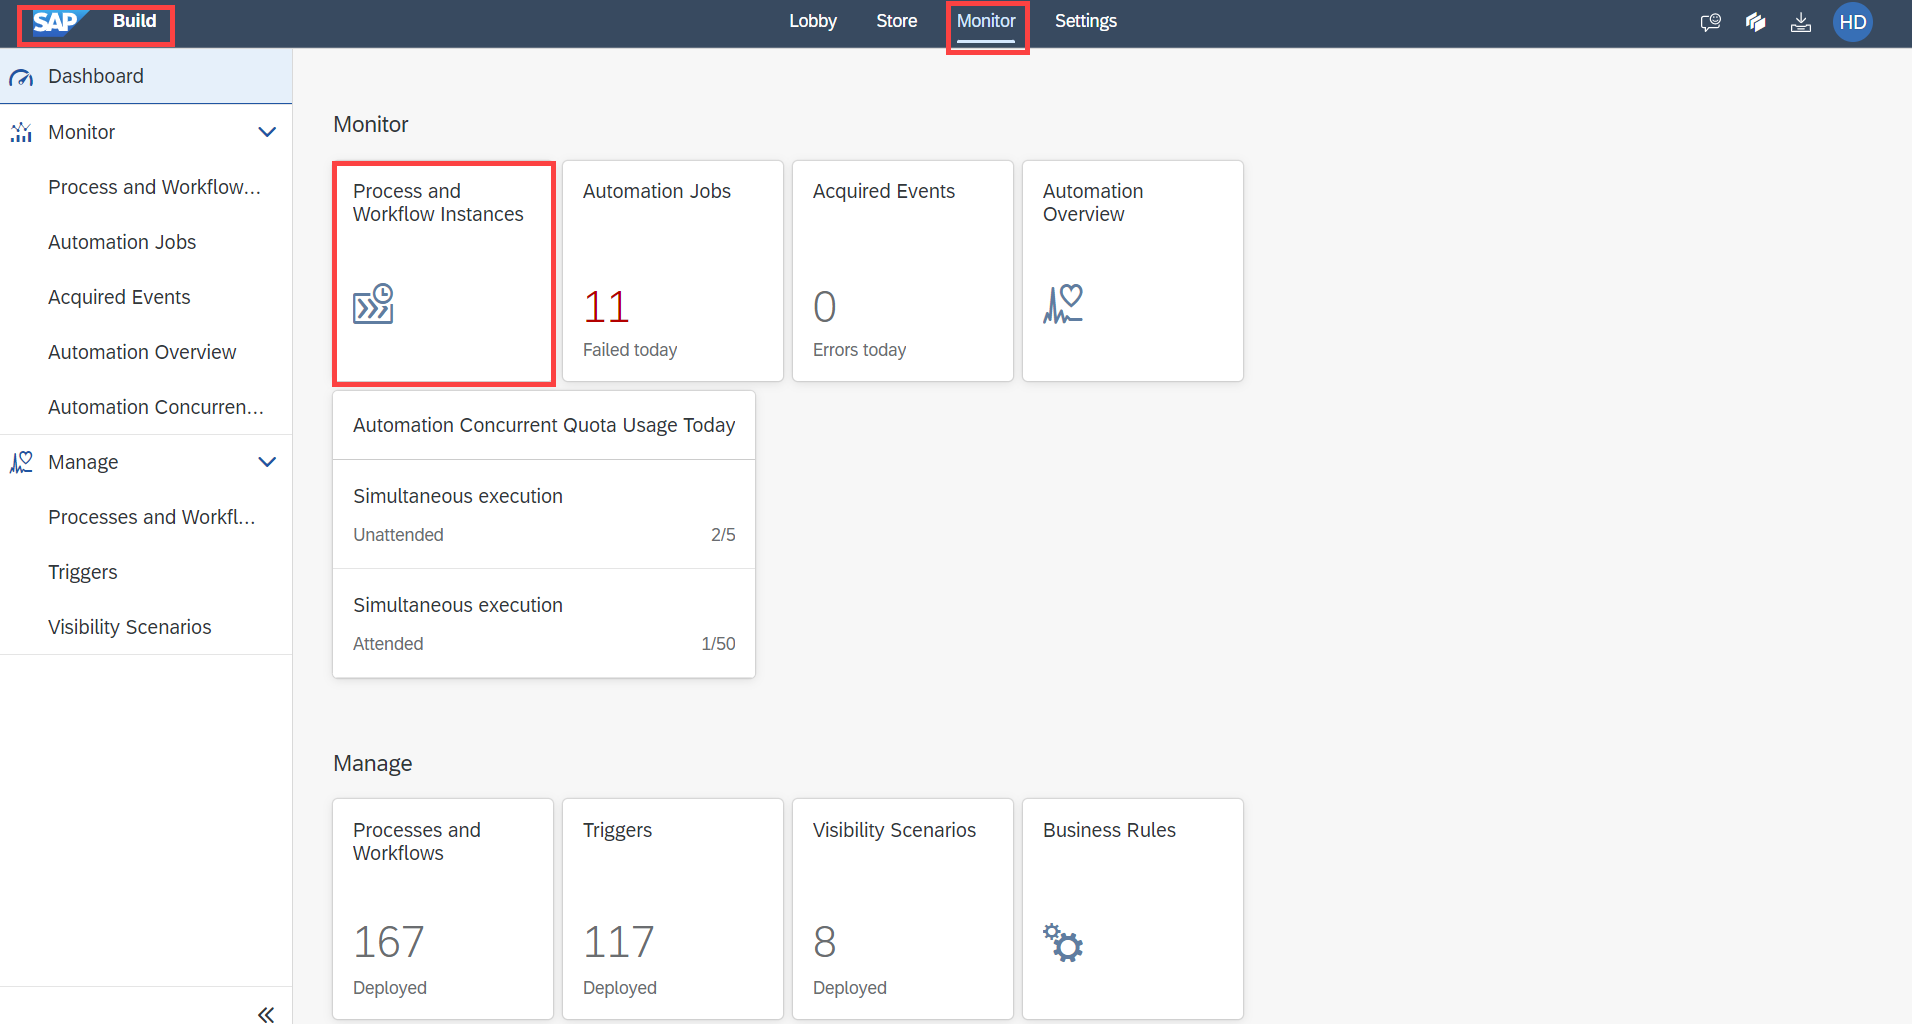
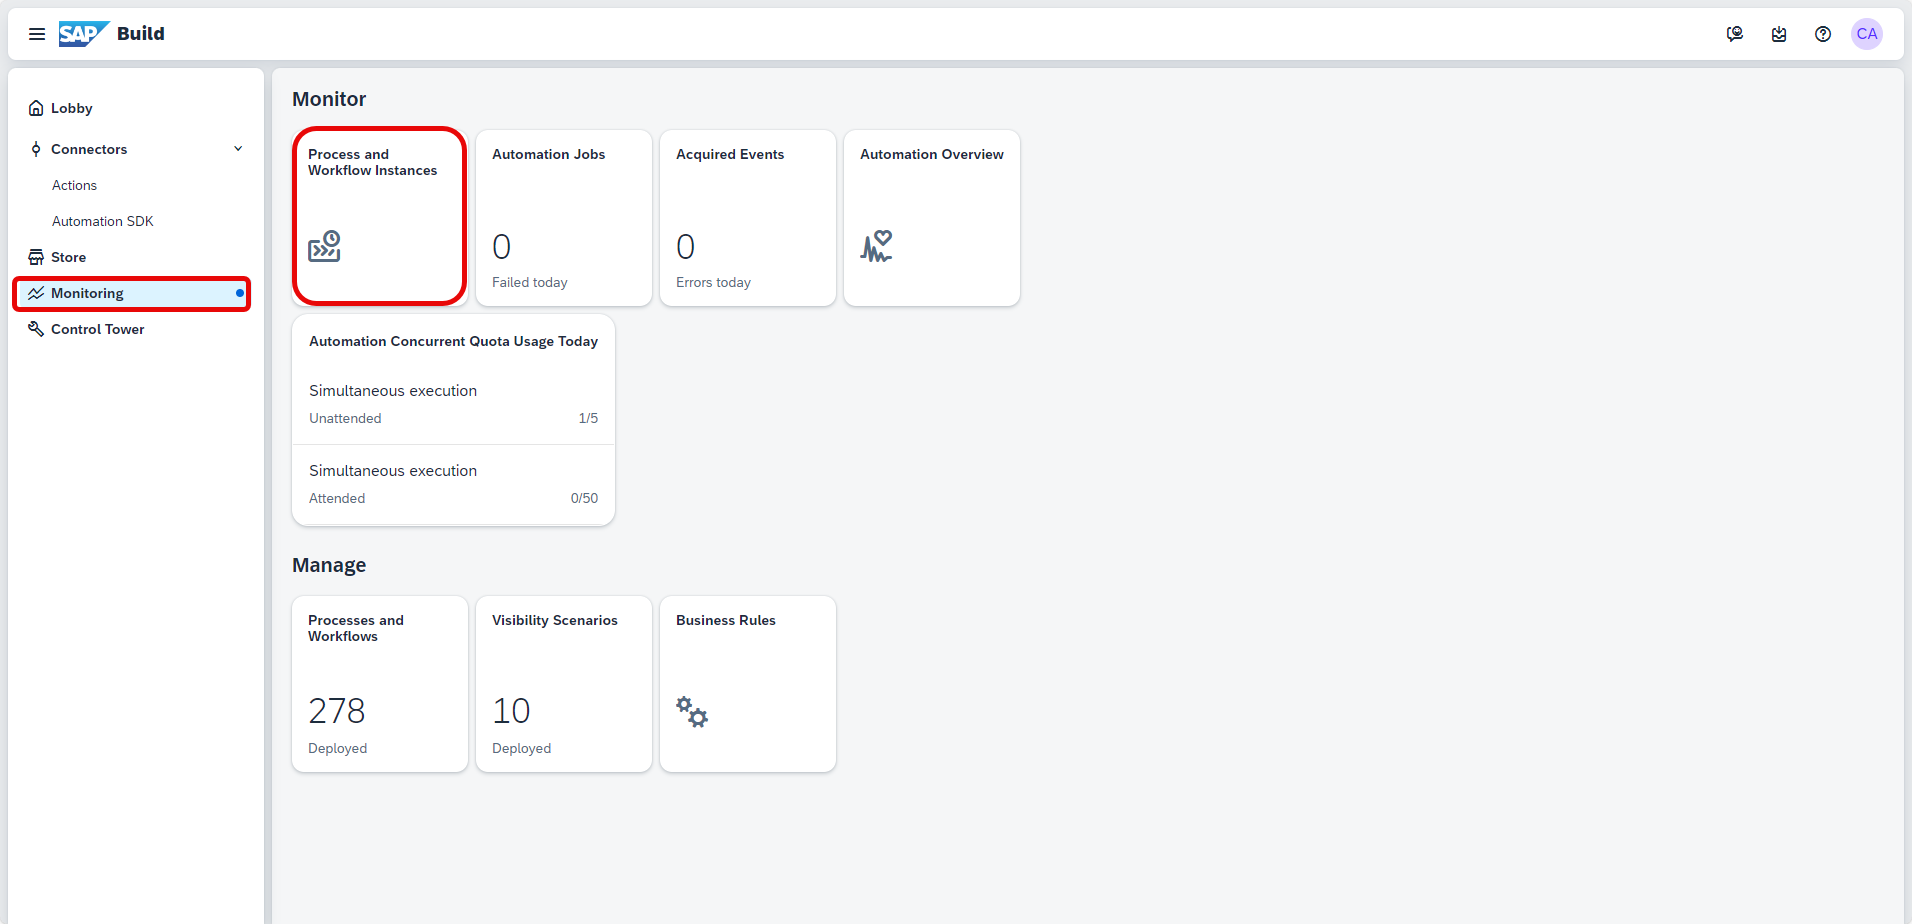
lobby changes: monitoring

diff --git a/tutorials/spa-add-list-input-decision/spa-add-list-input-decision.md b/tutorials/spa-add-list-input-decision/spa-add-list-input-decision.md
@@ -15,7 +15,7 @@ primary_tag: software-product>sap-build-process-automation
 ## Prerequisites
   - Either complete the mission [Create Tables in the Form](https://developers.sap.com/tutorials/spa-forms-table.html).
   - Setup the desktop agent to run automation as explained in [this tutorial](spa-run-agent-settings).
-  - Download the [Orders.xlsx](https://github.com/sap-tutorials/sap-build-process-automation-Contribution/blob/main/tutorials/spa-add-list-input-in-decision/Orders%20.xlsx) in your local machine. 
+  - Download the [Orders.xlsx](https://github.com/sap-tutorials/sap-build-process-automation-Contribution/blob/main/tutorials/spa-add-list-input-decision/Orders.xlsx) in your local machine. 
 
 ## You will learn
   - How to use a List as an input/output to your Decision.
@@ -561,20 +561,21 @@ After completing the prerequisites, you will create a new process.
 
     <!-- border -->![decision](81.png)
 
-3. Once the form is submitted successfully, the BOT opens the **Sales order Excel** file which is stored in your system reads the data, and passes the data to the Decision. The Business rules are executed and the list of orders with/without errors are displayed in the Tables in the Form. 
-    You can notice the steps of execution in the **Monitor** section.
+Once the form is submitted successfully, the BOT opens the **Sales order Excel** file which is stored in your system, reads the data, and passes the data to the Decision. The Business rules are executed and the list of orders with/without errors are displayed in the Tables in the Form. You can notice the steps of execution in the **Monitoring** section.
+
+3. Navigate back to **SAP Build** Lobby and select **Monitoring** tab. Then choose **Process and Workflow Instances** under **Monitor**.
 
     <!-- border -->![decision](monitor.png)
 
-4. Now, the process indicates that the Task is available in **My Inbox**.
+3. Now, the process indicates that the Task is available in **My Inbox**.
 
     <!-- border -->![decision](monitor2.png)
 
-5. In the **SAP Build** lobby, choose **My Inbox** icon.
+4. In the **SAP Build** lobby, choose **My Inbox** icon.
 
     <!-- border -->![decision](82.png)
 
-6. You will get a notification with the error details in a table.
+5. You will get a notification with the error details in a table.
 
     <!-- border -->![decision](83.png)
 
